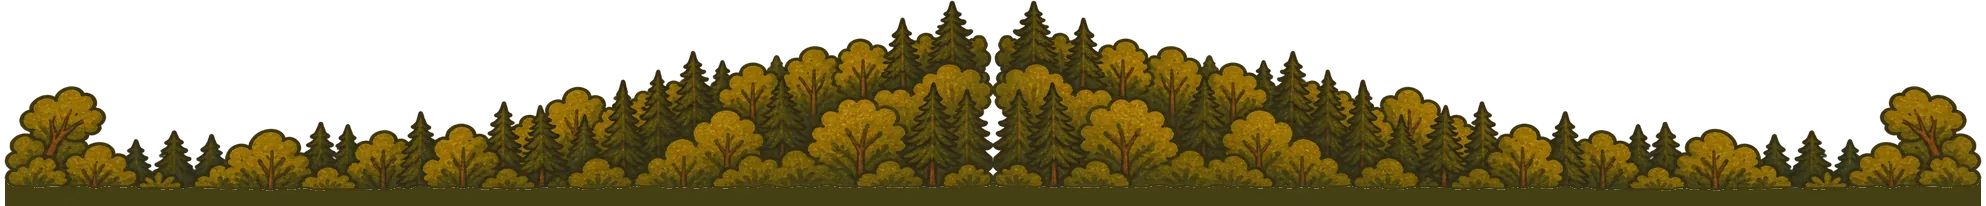
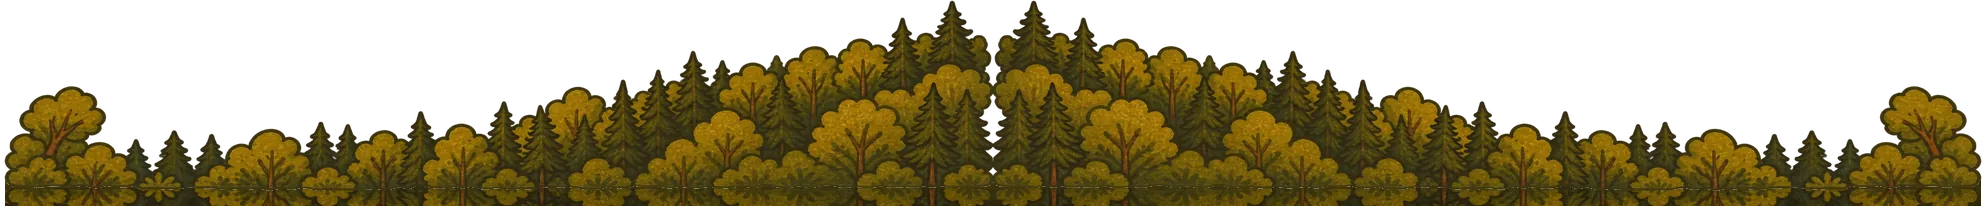
feat(bg): painted bases under grounded slices; passing trees in every wooded region
Game Director, 27 Nov 2026 evening: "other locations with woods should get
the passing trees as well. If you can paint proper bases do it."
- Bases: no longer a flat colour. A grounded slice's base continues its own
  painting: its densest band mirrored down (forest undergrowth, lake water,
  reeds), wide holes cloned from the shadier paint beside them (Triglav's
  forest arch), edge trees' trunks continued per column; shaded a little.
  Painted on the finished tile, so it wraps the way the tile repeats.
- Passing trees in Peca, Trnovski gozd and Ljubljanski grad (passing-trees,
  1.35, front, passing). Gozd's and Grad's own edge trees are cut by the
  picture's sides (mirrored, never padded, always on screen), so Triglav's
  whole clumps stand in: mirrored, graded to the moonlight and the sunset.
- Export tool options: flip, tint, study.

Claude-Session: https://claude.ai/code/session_01DWpJZzjXS7ETbBnY6To3Az

Changed region(s): [[0.0, 0.9029, 0.999, 1.0]]

diff --git a/tools/art_folk_parallax.py b/tools/art_folk_parallax.py
@@ -34,6 +34,9 @@ QUALITY = 80
 LANE_EXT = 0.35   # how far below itself the lane's mirror image reaches, in view heights (the most a lane rises in battle)
 FLOOR_REACH = 8   # how far a grounded slice (`floor`) reaches under the lowest top edge of the lane, in view px
 OPAQUE = 160      # alpha from which a pixel counts as paint for `floor`
+BASE_BAND = 26    # `floor`: how many rows of the slice's own paint its base continues, mirrored, in view px
+BASE_SHADE = (0.92, 0.8)   # `floor`: the base's shade right under the paint, and BASE_FADE px further down
+BASE_FADE = 36
 
 # Per region, back to front: layer id, study file, preview box (left, top, width, height in % of the 16:9 scene;
 # height None = auto, from the picture's own shape), fit, and options:
@@ -49,11 +52,14 @@ OPAQUE = 160      # alpha from which a pixel counts as paint for `floor`
 #   rows: (top, bottom) only these view rows of the picture (bottom None = to the end), for a picture that lies at two
 #         depths and is cut in two (the same file, two layers);
 #   blur: a near layer out of focus: blurred by this radius in view px (premultiplied, so no dark fringe);
+#   flip: the picture mirrored left to right (a borrowed or repeated picture that should not look the same);
+#   tint: (r, g, b) multipliers grading a borrowed picture to the region's light (moonlight, sunset);
+#   study: take the picture from another study (passing trees borrowed from a region with the same woods);
 #   floor: the slice stands on the ground (Game Director, 27 Nov 2026: slices floated over the lane with the sky showing
 #          under them). In every column whose lowest paint lies in the lower `floor` share of the slice's painted height,
-#          the gap under that paint is filled with the slice's floor colour (the median of its paint in its lowest
-#          rows), down to FLOOR_REACH view px below the lowest top edge of the walking lane. The slice then overlaps the
-#          lane in every column at any scroll position, as slices overlap in Codex's own composite.
+#          a base is painted under that paint, continuing the slice's own painting (`grounded`), down to FLOOR_REACH
+#          view px below the lowest top edge of the walking lane. The slice then overlaps the lane in every column at any
+#          scroll position, as slices overlap in Codex's own composite.
 # Boxes reproduce Codex's layered-composite-preview.png: full-scene cutouts at 1:1 (100 %), other canvases at the box
 # of preview.html (whose wider boxes for full-scene layers only make room for its pan). Speeds: data/backgrounds.json.
 STUDIES = {
@@ -68,6 +74,10 @@ STUDIES = {
             ('framing-trees', 'framing-trees.png', (0, 0, 100, 100), 'fill', {'tile': True, 'floor': 0.25}),
             ('grass-lane', 'foreground-grass-lane.png', (0, 0, 100, 100), 'fill', {'tile': True, 'stand': True}),
             ('near-rocks-grass', 'near-foreground-rocks-grass.png', (0, 0, 100, 100), 'fill', {'tile': True, 'front': True}),
+            # passing trees, as on Triglav (Game Director, 27 Nov 2026: woods get passing trees). The forest's own edge
+            # trees are cut by the picture's sides (mirrored into a double tree, never padded, always on screen), so
+            # Triglav's whole fir clumps stand in, mirrored and graded to the moonlight, until Codex paints some
+            ('passing-trees', 'foreground-spruces.png', (0, -39.5, 160, 160), 'fill', {'tile': True, 'period': 2.5, 'front': True, 'blur': 5, 'flip': True, 'study': 'triglav', 'tint': (0.5, 0.6, 0.8)}),
         ],
     },
     'ptuj': {
@@ -95,6 +105,9 @@ STUDIES = {
             ('cave-rock', 'cave-rock.png', (36.5, 29.8, 63.5, 44.6), 'fill', {'tile': True, 'period': 3}),
             ('ground', 'foreground-ground.png', (-35, 31, 170, 80), 'fill', {'tile': True, 'stand': True}),
             ('oak', 'foreground-oak.png', (0, 0, 77.8, 69.1), 'fill', {'tile': True, 'period': 2.5}),
+            # passing trees, the same near trees as Triglav's (Game Director, 27 Nov 2026: woods get passing trees): Peca's autumn forest has the same spruces and larches as Triglav, so Triglav's
+            # near trees, mirrored, stand in for Peca's own until Codex paints some
+            ('passing-trees', 'foreground-spruces.png', (0, -39.5, 160, 160), 'fill', {'tile': True, 'period': 2.5, 'front': True, 'blur': 5, 'flip': True, 'study': 'triglav'}),
         ],
     },
     'triglav': {
@@ -201,6 +214,9 @@ STUDIES = {
             ('near-foreground-tree-frame', 'near-foreground-tree-frame.png', (0, 0, 100, 100), 'fill', {'tile': True, 'period': 2.5, 'floor': 0.25}),
             ('foreground-grass-lane', 'foreground-grass-lane.png', (0, 0, 100, 100), 'fill', {'tile': True, 'stand': True}),
             ('near-foreground-flowers', 'near-foreground-flowers.png', (0, 0, 100, 100), 'fill', {'tile': True, 'front': True}),
+            # passing trees, as on Triglav (Game Director, 27 Nov 2026): the park's oaks are cut by the picture's sides,
+            # so Triglav's whole tree clumps stand in, graded to the sunset, until Codex paints some
+            ('passing-trees', 'foreground-spruces.png', (0, -39.5, 160, 160), 'fill', {'tile': True, 'period': 2.5, 'front': True, 'blur': 5, 'study': 'triglav', 'tint': (1.0, 0.82, 0.72)}),
         ],
     },
 }
@@ -300,7 +316,12 @@ def lane_low_top(cfg):
 
 
 def grounded(im, x, y, share, reach):
-    """`floor`: the slice's gaps under its paint filled with its floor colour down to view row `reach` (see STUDIES)"""
+    """`floor`: a base painted under the slice, down to view row `reach` (see STUDIES). The base continues the slice's
+    own paint (Game Director, 27 Nov 2026: "paint proper bases"): its densest band of rows, mirrored downwards, so a
+    forest goes on as forest, water as water, reeds as reeds, and a wide hole in it (Triglav's forest has an arch)
+    holds the same paint as beside it, cloned; where a slice has no dense band (edge trees), each column's own lowest
+    paint mirrored, so a trunk goes on as a trunk. Shaded a little deeper the lower it lies, as the
+    ground under trees lies in their shade. Where neither has paint near, the slice's floor colour."""
     h = max(im.height, reach - y + 1)
     if h > im.height:
         big = Image.new('RGBA', (im.width, h)); big.paste(im, (0, 0)); im = big
@@ -314,15 +335,64 @@ def grounded(im, x, y, share, reach):
     sample = sorted((px[c, r][:3] for c in range(0, w, 2) for r in range(max(0, bottom - 14), bottom + 1) if a[c, r] > 200), key=sum)
     if not sample:
         return im
-    floor = sample[len(sample) // 2]
+    floor = sample[len(sample) // 2] + (255,)
     edge = bottom - share * (bottom - top)
+    cols = [c for c, b in enumerate(low) if b is not None and b >= edge]
+    # the densest band: the lowest row painted in at least 92 % of the grounded columns, with BASE_BAND rows above it
+    dense = next((r for r in range(bottom, top - 1, -1) if sum(a[c, r] > OPAQUE for c in cols) >= 0.92 * len(cols)), None)
+    if dense is not None and dense - BASE_BAND + 1 < top:
+        dense = None
+
+    def mirror(base, k, n):   # k rows under `base`, reflected back and forth through the n rows above it (no seam)
+        m = k % (2 * n)
+        return base - (m if m < n else 2 * n - 1 - m)
+
+    rows = {}
+
+    def cloned(r):   # row r with every hole in its paint filled with the paint beside it, cloned from the shadier side
+        if r not in rows:   # (the layer tiles, so the row wraps): a wide hole holds the same forest or water as beside it
+            row = [px[c, r] if a[c, r] > OPAQUE else None for c in range(w)]
+            start = next((c for c in range(w) if row[c] is not None), None)
+            if start is not None:
+                out, i = list(row), 0
+                while i < w:
+                    if row[(start + i) % w] is None:
+                        k = i
+                        while row[(start + k) % w] is None:
+                            k += 1
+                        m = 0   # the paint to the right of the hole, and to its left
+                        while m < w and row[(start + k + m) % w] is not None:
+                            m += 1
+                        lm = 0
+                        while lm < w and row[(start + i - 1 - lm) % w] is not None:
+                            lm += 1
+                        right = [row[(start + k + t % m) % w] for t in range(k - i)]
+                        left = [row[(start + i - lm + t % lm) % w] for t in range(k - i)]
+                        dark = lambda ps: sum(p[0] * 2 + p[1] * 3 + p[2] for p in ps)   # the shadier side: a base lies in shade
+                        for t, p in enumerate(right if dark(right) <= dark(left) else left):
+                            out[(start + i + t) % w] = p
+                        i = k
+                    else:
+                        i += 1
+                row = out
+            rows[r] = row if start is not None else None
+        return rows[r]
     under = Image.new('RGBA', im.size)
     u = under.load()
-    for c, b in enumerate(low):
-        if b is not None and b >= edge:
-            for r in range(b + 1, reach - y + 1):
-                u[c, r] = floor + (255,)
-    under.alpha_composite(im)   # the slice's own paint (and its soft edge) stays on top of the fill
+    for c in cols:
+        b = low[c]
+        n = min(BASE_BAND, b - top + 1)
+        for r in range(b + 1, reach - y + 1):
+            if dense is not None:   # the dense band, mirrored down; holes in it cloned from beside them
+                # (a hole above the band takes the band's rows too: the forest's dark base, not a crown at that height)
+                row = cloned(dense - (dense - r) % BASE_BAND if r <= dense else mirror(dense, r - dense - 1, BASE_BAND))
+                p = row[c] if row else floor
+            else:   # edge trees: the column's own paint, mirrored down (a trunk goes on as a trunk)
+                src = mirror(b, r - b - 1, n)
+                p = px[c, src] if a[c, src] > OPAQUE else ((cloned(src) or [floor] * w)[c])
+            f = BASE_SHADE[0] + (BASE_SHADE[1] - BASE_SHADE[0]) * min(1, (r - b) / BASE_FADE)
+            u[c, r] = (round(p[0] * f), round(p[1] * f), round(p[2] * f), 255)
+    under.alpha_composite(im)   # the slice's own paint (and its soft edge) stays on top of its base
     return under
 
 
@@ -340,8 +410,13 @@ def build(key, composite=False):
     out_dir.mkdir(parents=True, exist_ok=True)
     layers, total, comp = [], 0, Image.new('RGBA', (VIEW_W, VIEW_H), (0, 0, 0, 255))
     for order, (lid, f, box, fit, opt) in enumerate(cfg['layers'], 1):
-        src = master(cfg['study'], f)
+        src = master(opt.get('study', cfg['study']), f)
         im = Image.open(src).convert('RGBA')
+        if opt.get('flip'):
+            im = ImageOps.mirror(im)
+        if opt.get('tint'):   # graded to the region's light: each colour channel multiplied
+            r, g, b, al = im.split()
+            im = Image.merge('RGBA', [ch.point(lambda v, k=k: min(255, round(v * k))) for ch, k in zip((r, g, b), opt['tint'])] + [al])
         cut_l, cut_r = touches_edge(im)   # decided on the master, before resizing
         im, x, y = place(im, box, fit)
         if opt.get('rows'):   # only these view rows of the picture (a picture that lies at two depths, cut in two)
@@ -354,8 +429,6 @@ def build(key, composite=False):
             pad = opt['blur'] * 3
             big = Image.new('RGBA', (im.width + 2 * pad, im.height + 2 * pad)); big.paste(im, (pad, pad))
             im = big.convert('RGBa').filter(ImageFilter.GaussianBlur(opt['blur'])).convert('RGBA'); x -= pad; y -= pad
-        if opt.get('floor'):   # the slice stands on the ground: no sky under it above the lane
-            im = grounded(im, x, y, opt['floor'], lane_low_top(cfg) + FLOOR_REACH)
         if composite:
             comp.alpha_composite(im.crop((max(0, -x), max(0, -y), min(im.width, VIEW_W - x), min(im.height, VIEW_H - y))), (max(0, x), max(0, y)))
         im, x, y = trim(im, x, y, sides=not opt.get('tile'))
@@ -377,6 +450,8 @@ def build(key, composite=False):
             tile = im.crop((0, 0, im.width - ov, im.height))
             tile.alpha_composite(im.crop((im.width - ov, 0, im.width, im.height)), (0, 0))
             im = tile
+        if opt.get('floor'):   # the slice stands on the ground: a base under it, painted on the finished tile so that it
+            im = grounded(im, x, y, opt['floor'], lane_low_top(cfg) + FLOOR_REACH)   # wraps the way the tile repeats
         if opt.get('stand'):
             im = lane_below(im)
         opaque = im.getchannel('A').getextrema()[0] == 255
@@ -390,7 +465,9 @@ def build(key, composite=False):
                        'source': src.relative_to(ROOT).as_posix(), 'sourceSha1': sha1(src), 'previewBox': list(box), 'fit': fit,
                        **({'mirrored': 'both sides' if cut_l and cut_r else 'left side' if cut_l else 'right side'} if mirror else {}), **({'period': period} if period else {}),
                        **({'laneMirroredBelow': True} if opt.get('stand') else {}), **({'rows': list(opt['rows'])} if opt.get('rows') else {}), **({'wrap': opt['wrap']} if opt.get('wrap') else {}),
-                       **({'floor': opt['floor']} if opt.get('floor') else {}), **({'blur': opt['blur']} if opt.get('blur') else {})})
+                       **({'floor': opt['floor']} if opt.get('floor') else {}), **({'blur': opt['blur']} if opt.get('blur') else {}),
+                       **({'flip': True} if opt.get('flip') else {}), **({'study': opt['study']} if opt.get('study') else {}),
+                       **({'tint': list(opt['tint'])} if opt.get('tint') else {})})
     mp = ROOT / 'art/manifests' / f'{pack}.json'
     old = json.loads(mp.read_text(encoding='utf-8')) if mp.is_file() else {}
     man = {'pack': cfg['name'], 'version': '0.1.0', 'status': old.get('status', 'review'),
